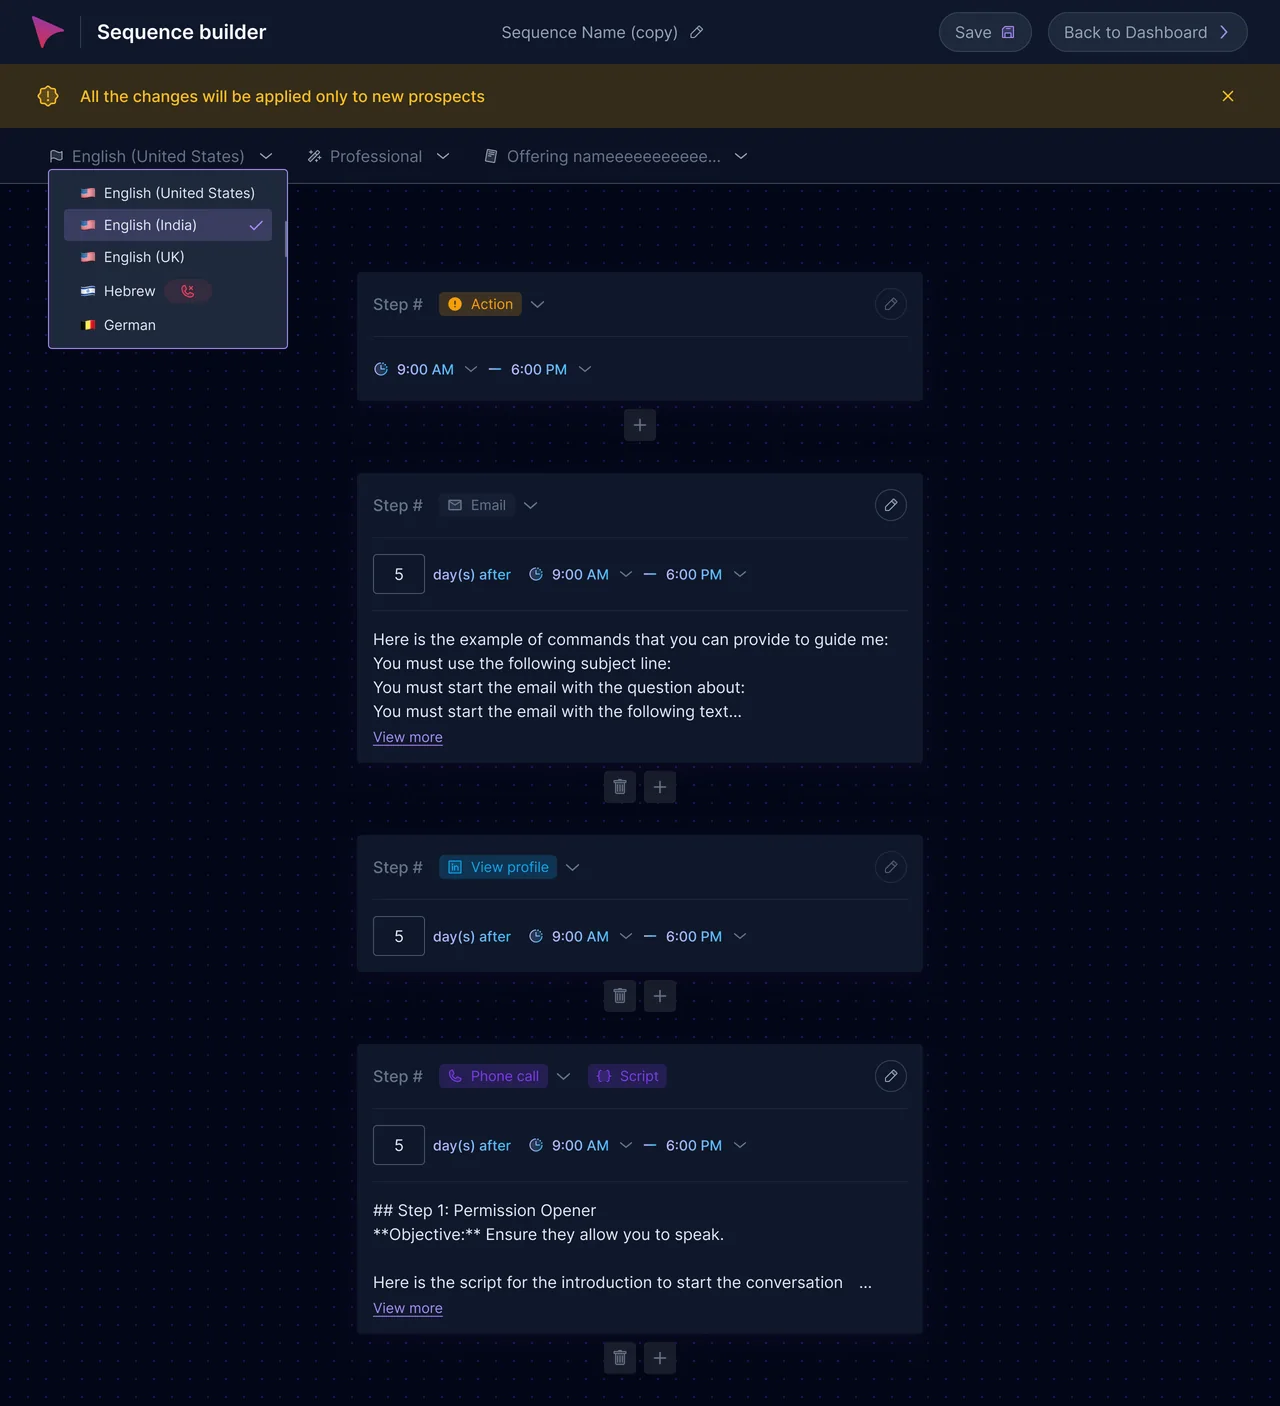
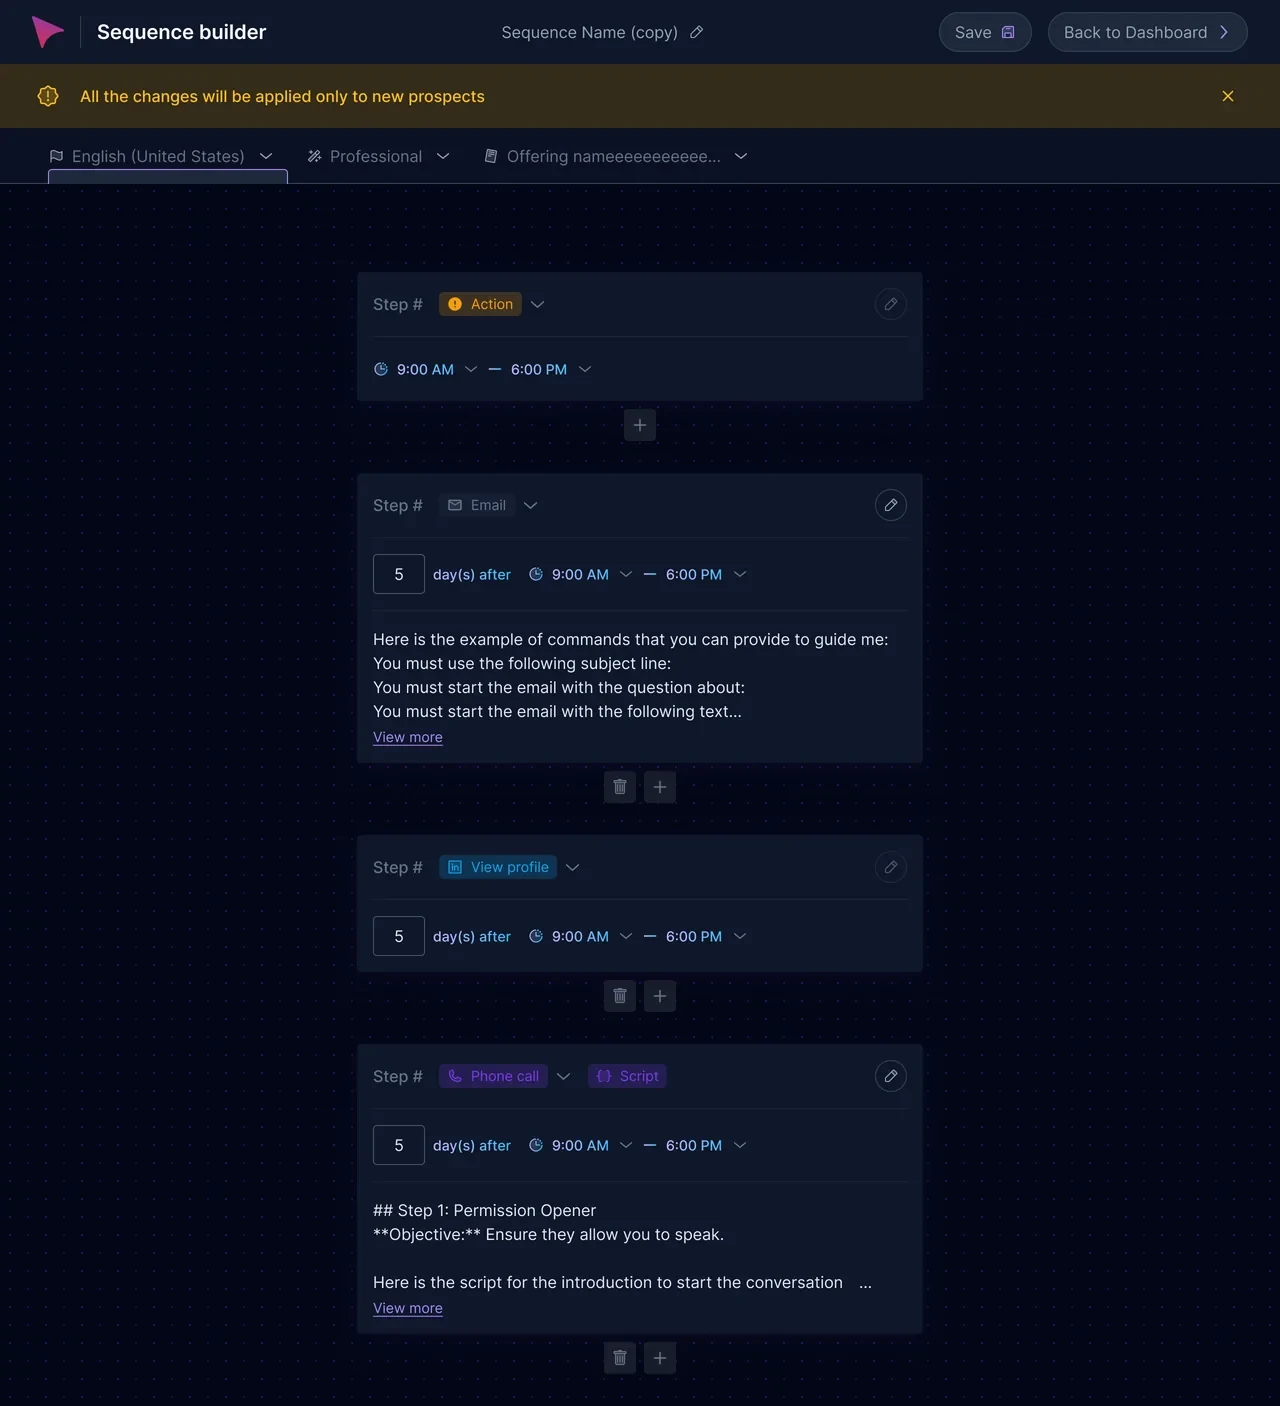
AnyBiz sequence builder: the open language menu fades out as the scroll begins

Changed region(s): [[0.0312, 0.1223, 0.25, 0.2752]]

diff --git a/AnyBiz.html b/AnyBiz.html
@@ -186,12 +186,18 @@ h1{font-size:clamp(34px,5.6vw,80px);line-height:1.03;letter-spacing:-.045em}
 .vp img.on{opacity:1}
 /* the sequence builder's top bar stays put while the steps scroll under it */
 .vp img.pin{z-index:1;pointer-events:none}
-.vp img.tall.on+img.pin{opacity:1}
+.vp img.tall.on~img.pin{opacity:1}
+/* the open language menu sits over the screen at the start and fades out as soon as the steps begin to scroll, back again at the top; it keeps time with img.tall */
+.vp img.drop{inset:auto;left:2.8125%;top:20.875%;width:20.625%;z-index:2;pointer-events:none;animation:menu var(--t,14s) ease-in-out .8s infinite alternate;animation-play-state:paused}
+.vp img.tall.on~img.drop{opacity:1}
+.stagefig.play .vp img.tall.on~img.drop{animation-play-state:running}
+.stagefig .stage:hover .vp img.drop{animation-play-state:paused}
+@keyframes menu{0%,7%{filter:opacity(1)}10%,100%{filter:opacity(0)}}
 .vp img.tall{animation:feed var(--t,16s) ease-in-out .8s infinite alternate;animation-play-state:paused}
 .stagefig.play .vp img.tall.on{animation-play-state:running}
 .stagefig .stage:hover .vp img.tall{animation-play-state:paused}
 @keyframes feed{0%,8%{transform:translateY(0)}92%,100%{transform:translateY(var(--to))}}
-@media (prefers-reduced-motion:reduce){.vp img.tall{animation:none}.vp img,.dev{transition:none}}
+@media (prefers-reduced-motion:reduce){.vp img.tall,.vp img.drop{animation:none}.vp img,.dev{transition:none}}
 @media (min-width:721px){.stagefig{align-self:stretch}.stagefig .stage{aspect-ratio:auto;height:100%;min-height:440px}}
 @media (max-width:720px){.stage{aspect-ratio:1/1}.dev{width:30%;bottom:-10%}}
 
@@ -593,8 +599,9 @@ html.menu-open{overflow:hidden}
         <div class="browser"><div class="bar" aria-hidden="true"><i></i><i></i><i></i><span>app.anybiz.io</span></div><div class="vp" id="lap">
           <img class="on" src="assets/work/anybiz/messaging.webp" alt="Messaging instructions: the checklist of instructions on the left, and an example email introduction written by the agent, with Regenerate and Save and train the AI." width="1600" height="1000">
           <img src="assets/work/anybiz/personas-app.webp" alt="Personas: a table with state, name, product and offering, channels, source, prospects, date and status, and the Import from menu open with File, LinkedIn, HubSpot, Zapier and Salesforce." width="1600" height="1000" loading="lazy">
-          <img class="tall" style="--to:-43%;--t:14s" src="assets/work/anybiz/sequence.webp" alt="The sequence builder: an action step, an email step, a LinkedIn view profile step and a phone call step with a script, each with days after and a sending window." width="1280" height="1406" loading="lazy">
+          <img class="tall" style="--to:-43%;--t:14s" src="assets/work/anybiz/sequence.webp?v=2" alt="The sequence builder: an action step, an email step, a LinkedIn view profile step and a phone call step with a script, each with days after and a sending window." width="1280" height="1406" loading="lazy">
           <img class="pin" src="assets/work/anybiz/sequence-head.webp" alt="" width="1280" height="185" loading="lazy">
+          <img class="drop" style="--t:14s" src="assets/work/anybiz/sequence-menu.webp" alt="" width="264" height="195" loading="lazy">
           <img src="assets/work/anybiz/performance-app.webp" alt="Personas in the performance view: engaged prospects, total actions by email, LinkedIn and phone, reply rate, opportunity rate and status for each persona." width="1600" height="1000" loading="lazy">
         </div></div>
         <div class="dev" id="dev"><div class="vp" id="mob">
@@ -802,7 +809,7 @@ document.querySelectorAll('.big').forEach(function(h){
 
 // 3. the accordion: one item open at a time; the browser and the phone show its screens (the phone hides when an item has none)
 (function(){
-  var items=document.querySelectorAll('#acc li'),lap=document.querySelectorAll('#lap img:not(.pin)'),mob=document.querySelectorAll('#mob img'),dev=document.getElementById('dev');
+  var items=document.querySelectorAll('#acc li'),lap=document.querySelectorAll('#lap img:not(.pin):not(.drop)'),mob=document.querySelectorAll('#mob img'),dev=document.getElementById('dev');
   items.forEach(function(li,i){li.querySelector('button').addEventListener('click',function(){
     items.forEach(function(o,k){var on=k===i;o.classList.toggle('open',on);o.querySelector('button').setAttribute('aria-expanded',on)});
     lap.forEach(function(im,k){im.classList.toggle('on',k===i)});

diff --git a/anybiz.md b/anybiz.md
@@ -51,7 +51,7 @@ Headline: A salesperson that works 24/7, *set up in one place*
 On a pale violet panel (#F1EEFB) a browser frame (app.anybiz.io) and a phone; the list beside it opens one item at a time and the screens crossfade. The open button turns violet (#7C3AED, a white plus).
 1. **Messaging instructions** (247:78046, `messaging.webp`; the phone shows the settings menu cut from 247:79007, `phone-settings.webp`): The rules the agent writes by, channel by channel: persona, language, tone of voice, call to action, signature, guidelines and case studies. The agent shows an example before anything is sent.
 2. **Personas** (247:78364 cut to 16:10, `personas-app.webp`; the phone shows the main menu, `phone-menu.webp`): Who the agent should reach, found in the database or imported from a file, LinkedIn, HubSpot, Zapier or Salesforce, each with its offering, channels, source and status.
-3. **Sequence builder** (247:78151, `sequence.webp`, scrolling slowly in the browser; no phone; the top bar, warning and filters stay fixed while the steps scroll under them, as in the product: `sequence-head.webp`, her call 2026-10-28): The AI agent talks to each prospect in the order and on the channels the customer sets for it: email, LinkedIn and phone steps in one timeline, each with its own sending window and instructions. (Rewritten on her request, 2026-10-22; was: Email, LinkedIn and phone steps in one timeline, each with its own sending window and instructions. Language, tone and offering are set once, at the top.)
+3. **Sequence builder** (247:78151, `sequence.webp`, scrolling slowly in the browser; no phone; the top bar, warning and filters stay fixed while the steps scroll under them, as in the product: `sequence-head.webp`, her call 2026-10-28; the open language menu is its own layer, `sequence-menu.webp`, shown at the start and fading out as soon as the scroll begins, her call 2026-10-28): The AI agent talks to each prospect in the order and on the channels the customer sets for it: email, LinkedIn and phone steps in one timeline, each with its own sending window and instructions. (Rewritten on her request, 2026-10-22; was: Email, LinkedIn and phone steps in one timeline, each with its own sending window and instructions. Language, tone and offering are set once, at the top.)
 4. **Performance** (247:78078 cut to 16:10, `performance-app.webp`; no phone): Engaged prospects, actions per channel, reply and opportunity rates for every persona, so the budget follows the audience that answers.
 **In her product's card style** (her request, 2026-10-22, after her Insights and Deliverability cards): slate cards #1E293B with 10 px corners and no outline, white semibold titles with a coloured line icon at the right (a violet calendar, a sky chart), slate tags #334155 with 4 px corners, the matching count in teal #2DD4BF, a "Persona recommendation" band across the top of the persona card as in her design, big white figures and a thin violet sparkline. Two cards of separate UI pieces in the product's dark style on the pale panel, the caption under each (figures from her design mockups; the note saying so was removed, her request 2026-10-22):
 - **A brand awareness agent** (after 247:78840): the "Enable LinkedIn auto-posts" row with its toggle on (the LinkedIn mark as tall as the title and the line beside it, 64 px, her request 2026-10-22; the card a little wider so the text keeps to that height); the schedule, Monday 2:15 PM Text only, Tuesday 10:00 AM off, Wednesday 2:15 PM Text + image. Caption: The agent writes and publishes LinkedIn posts for the brand on a schedule the customer controls, day by day and by format.
